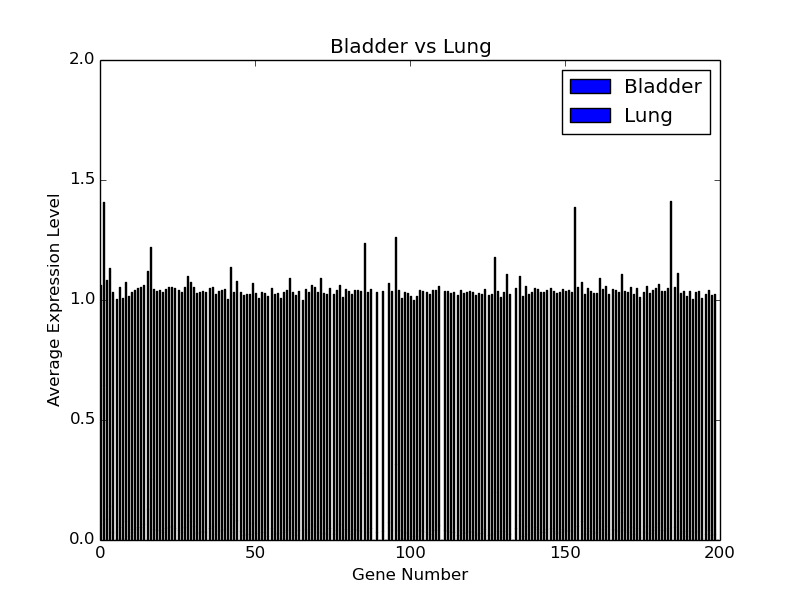
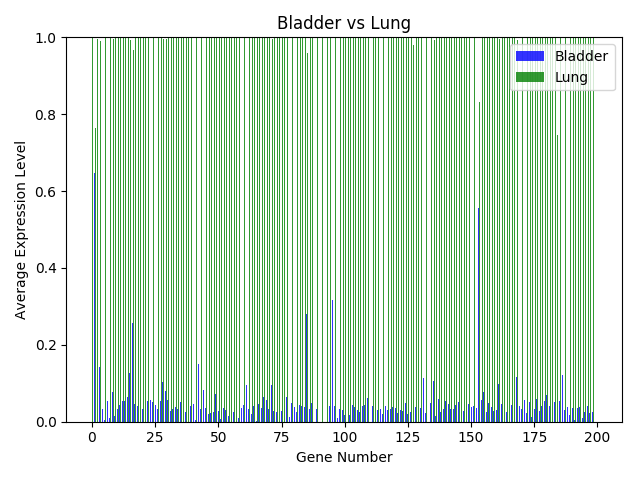
added random pipeline

diff --git a/compare_means.py b/compare_means.py
@@ -7,17 +7,27 @@ import matplotlib.pyplot as plt
 from sklearn import preprocessing
 import json
 from sklearn.preprocessing import normalize
-import sys
-
+import sys, argparse
 
 gene_count_dict = dict()
 with open("numsamples.json") as f:
     gene_count_dict = json.load(f)
 
+parser = argparse.ArgumentParser(description='Visualization tool for comparing gene expression levels in tissue')
+
+parser.add_argument('--dataset', help='dataset desired to compare from', type=str, required=True)
+parser.add_argument('--s1', help='sample class to choose from', type=str, required=True)
+parser.add_argument('--s2', help='sample class to choose from', type=str, required=True)
+parser.add_argument('--s3', help='sample class to choose from', type=str, required=False)
+parser.add_argument('--s4', help='sample class to choose from', type=str, required=False)
+parser.add_argument('--stack', help='stacked bar graphs or side-by-side (1 for stacked)', type=int, required=False, default=1)
+
+args = parser.parse_args()
+
 #Example: python compare_means.py "HALLMARK_ADIPOGENESIS" "Bladder" "Lung" will produce BladderLung.png
-process = sys.argv[1]
-sample1 = sys.argv[2] #"Adipose-Subcutaneous"
-sample2 = sys.argv[3]#"Adipose-Visceral"
+process = args.dataset
+sample1 = args.s1 #"Adipose-Subcutaneous"
+sample2 = args.s2#"Adipose-Visceral"
 tissues = [sample1,sample2]
 maxabsscalar = preprocessing.MaxAbsScaler()
 
@@ -38,21 +48,49 @@ for i in range(len(tissues)):#go through both samples
     average_expressions[i] = np.reshape(average_expressions[i], (average_expressions[i].shape[0], 1))
 
 average_expressions = np.hstack((average_expressions[0],average_expressions[1]))
-average_expressions = normalize(average_expressions) 
+average_expressions = maxabsscalar.fit_transform(average_expressions) 
 average_expressions = np.hsplit(average_expressions,2)
 
-N = 200
-ind = np.arange(N)    # the x locations for the groups
-width = 0.35       # the width of the bars: can also be len(x) sequence
+if args.stack == 1:
+	N = 200
+	ind = np.arange(N)    # the x locations for the groups
+	width = 0.35       # the width of the bars: can also be len(x) sequence
 
-p1 = plt.bar(ind, average_expressions[0], width)
-p2 = plt.bar(ind, average_expressions[1], width,
-             bottom=average_expressions[0])
+	p1 = plt.bar(ind, average_expressions[0], width)
+	p2 = plt.bar(ind, average_expressions[1], width,
+	             bottom=average_expressions[0])
 
-plt.ylabel('Average Expression Level')
-plt.xlabel('Gene Number')
-plt.title(sample1 + " vs "+ sample2 )
-plt.ylim(0,2)
-plt.legend((p1[0], p2[0]), (sample1, sample2))
+	plt.ylabel('Average Expression Level')
+	plt.xlabel('Gene Number')
+	plt.title(sample1 + " vs "+ sample2 )
+	plt.ylim(0,2)
+	plt.legend((p1[0], p2[0]), (sample1, sample2))
 
-plt.savefig('./graphs/hallmark_subsets/'+ process + '/compares/' + sample1 + sample2 + '.png')
+	plt.savefig('./graphs/hallmark_subsets/'+ process + '/compares/' + sample1 + sample2 + '.png')
+else:
+	N = 200
+	ind = np.arange(N)    # the x locations for the groups
+	width = 0.35       # the width of the bars: can also be len(x) sequence
+	opacity = 0.8
+	fig, ax = plt.subplots()
+
+	p1 = plt.bar(ind, average_expressions[0], width, alpha=opacity, color='b', label=args.s1)
+	p2 = plt.bar(ind + width, average_expressions[1], width, alpha=opacity, color='r', label=args.s2)
+
+	plt.ylabel('Average Expression Level')
+	plt.xlabel('Gene Number')
+	plt.title(sample1 + " vs "+ sample2 )
+	plt.ylim(0,np.max(average_expressions))
+	plt.legend((p1[0], p2[0]), (sample1, sample2))
+	plt.tight_layout()
+
+	print(args.s1)
+	print(str(np.max(average_expressions[0])))
+	print(np.argmax(average_expressions[0]))
+
+	print(args.s2)
+	print(str(np.max(average_expressions[1])))
+	print(np.argmax(average_expressions[1]))
+
+	plt.savefig('./graphs/hallmark_subsets/'+ process + '/compares/' + sample1 + sample2 + '.png')
+

diff --git a/nn_gtex.py b/nn_gtex.py
@@ -12,7 +12,7 @@ import os
 
 def main():
     parser = argparse.ArgumentParser(description='Neural network to classify genetic data')
-    parser.add_argument('--lr', help='learning rate', type=float, default=0.0001)
+    parser.add_argument('--lr', help='learning rate', type=float, default=0.001)
     parser.add_argument('--epochs', help='no. of training epoch', type=int, default=100)
     parser.add_argument('--h1', help='no. of neurons in hidden layer 1', type=int, default=512)
     parser.add_argument('--h2', help='no. of neurons in hidden layer 2', type=int, default=512)
@@ -61,7 +61,7 @@ def main():
         #layer_2 = tf.nn.dropout(layer_2, 0.75)
         # Hidden layer with RELU activation
         layer_3 = tf.add(tf.matmul(layer_2, weights['h3']), biases['b3'])
-        layer_3 = tf.nn.relu(layer_3)
+        layer_3 = tf.nn.sigmoid(layer_3)
         #layer_3 = tf.nn.dropout(layer_3, 0.75)
         #layer_3 = tf.nn.l2_normalize(layer_3, [0,1])
 
@@ -147,9 +147,9 @@ def main():
             # Compute average loss
             avg_cost += c / total_batch
             
-        if epoch % display_step == 0:
-            print("Epoch:", '%04d' % (epoch+1), "Learning Rate: ", '%5f' % (learning_rate.eval(feed_dict=None, session=sess)), "cost=", "{:.9f}".format(avg_cost))
-    print("Optimization Finished!")
+    #     if epoch % display_step == 0:
+    #         print("Epoch:", '%04d' % (epoch+1), "Learning Rate: ", '%5f' % (learning_rate.eval(feed_dict=None, session=sess)), "cost=", "{:.9f}".format(avg_cost))
+    # print("Optimization Finished!")
     saver.save(sess, "./checkpoints/gtex_nn")
 
     # Test model
@@ -157,6 +157,7 @@ def main():
     # Calculate accuracy
     accuracy = tf.reduce_mean(tf.cast(correct_prediction, "float"))
     print(str(accuracy.eval({x: gtex.test.data, y: gtex.test.labels}, session=sess)))
+    #print(str(result.eval({x:gtex.test.data[0:3]}, session=sess)))
     # bd = np.transpose(np.load('./datasets/braincell_data_flt32.npy'))
     # bd = maxabsscaler.fit_transform(bd)
     # labels = np.zeros((331,30))

diff --git a/random_gene_generator.py b/random_gene_generator.py
@@ -1,28 +1,43 @@
 import numpy as np
 import os
 import json
+import shutil
+import sys, argparse
+
+parser = argparse.ArgumentParser(description='generate random subsets of GTEx specified by number')
+parser.add_argument('--num', help='number of genes to use in random submatrix', type=int, required=True, default=0)
+args = parser.parse_args()
 
 #Generate Gene Indexes for Random Sample
-gene_indexes = np.random.randint(56238, size=200)
+gene_indexes = np.random.randint(56238, size=args.num)
 
 #Load JSON
 gene_count_dict = dict()
 with open("numsamples_gtex.json") as f:
     gene_count_dict = json.load(f)
 
+if os.path.isdir('./datasets/GTEx_Data_Random'):
+	shutil.rmtree('./datasets/GTEx_Data_Random')
+
+if not os.path.isdir('./datasets/GTEx_Data_Random'):
+	os.mkdir('./datasets/GTEx_Data_Random')
+
 tissues = os.listdir("./datasets/GTEx_Data")
 
 for i in range(len(tissues)):#loop through all tissue types
     tissue_samples = os.listdir("./datasets/GTEx_Data/"+ tissues[i])#get dat files/samples
 
+    if not os.path.isdir('./datasets/GTEx_Data_Random/' + tissues[i]):
+    	os.mkdir('./datasets/GTEx_Data_Random/' + tissues[i])
+
     for j in range(gene_count_dict[tissues[i]]):#loop through dat files
         sample = np.fromfile("./datasets/GTEx_Data/"+ tissues[i]+'/' + tissue_samples[j], dtype=np.float32)#get 1 sample
-	random_sample = np.zeros(200)
+	random_sample = np.zeros(args.num)
 	for r in range(len(gene_indexes)):#loop through random indexes
 		random_sample[r] = sample[gene_indexes[r]]
 
 	random_sample = random_sample.astype(np.float32)
 	#print(len(random_sample))
-	random_sample.tofile("./datasets/GTEx_Data_random200/"+ tissues[i] + '/' +tissue_samples[j])
+	random_sample.tofile("./datasets/GTEx_Data_Random/"+ tissues[i] + '/' +tissue_samples[j])
 		
         

diff --git a/random_test.py b/random_test.py
@@ -1,0 +1,45 @@
+#/usr/bin/python
+
+# runs all the hallmark sets iteratively
+
+import numpy as np
+import os
+import subprocess
+
+#top_dir = os.system("cd /home/csheare/DeepGTEx/datasets/hallmark_subsets")
+
+hall_subs = os.listdir("./datasets/hallmark_subsets")
+hall_subs.sort()
+files = ['random_accuracy.txt']
+h1 = [1024]
+h2 = [1024]
+h3 = [1024]
+
+accs = np.zeros((50,100))
+
+for j in range(100):
+	print('Iteration ' + str(j))
+	out = []
+	for i in range(len(hall_subs)):
+
+		temp = np.fromfile('./datasets/hallmark_subsets/' + hall_subs[i] + '/Artery-Tibial/000_GTEX-111FC-0426-SM-5N9CV.dat', dtype=np.float32)
+		n_features = temp.shape[0]
+
+		os.system('python ./random_gene_generator.py --num ' + str(n_features))
+
+		os.system('python ./create-sets.py -d gtex -p ./datasets/GTEx_Data_Random ' + ' -t 70 -r 30 ')
+		#find features
+
+		#future:change arguments and get from command line
+		accs[i,j] = subprocess.check_output('python nn_gtex.py --n_input ' + str(n_features) + \
+			' --n_classes 53 --batch_size 256 --lr 0.001 --epochs 75 --h1 ' + str(h1[0]) + ' --h2 ' + str(h2[0]) + ' --h3 ' + str(h3[0]), shell=True)
+
+
+np.save('./logs/accuracies.npy', accs)
+
+means = np.mean(accs, axis=1)
+
+fp = open('./logs/' + files[0], 'w')
+for val,name in zip(means,hall_subs):
+    fp.write('{0}\t{1}'.format(name, val))    
+fp.close() 

diff --git a/run_halls.py b/run_halls.py
@@ -10,10 +10,10 @@ import subprocess
 
 hall_subs = os.listdir("./datasets/hallmark_subsets")
 hall_subs.sort()
-files = ['53reinforce_2048x2048x2048_250e.txt']
-h1 = [2048]
-h2 = [2048]
-h3 = [2048]
+files = ['Xav_1024x1024x1024_100e.txt']
+h1 = [1024]
+h2 = [1024]
+h3 = [1024]
 
 for j in range(len(files)):
 	out = []
@@ -24,7 +24,7 @@ for j in range(len(files)):
 	    n_features = temp.shape[0]
 	    #future:change arguments and get from command line
 	    out.append(subprocess.check_output('python ../reinforce/nn_gtex_reinforce.py --n_input ' + str(n_features) + \
-	    	' --n_classes 53 --batch_size 256 --lr 0.001 --epochs 250 --h1 ' + str(h1[j]) + ' --h2 ' + str(h2[j]) + ' --h3 ' + str(h3[j]), shell=True))
+	    	' --n_classes 53 --batch_size 16 --lr 0.001 --epochs 100 --h1 ' + str(h1[j]) + ' --h2 ' + str(h2[j]) + ' --h3 ' + str(h3[j]), shell=True))
 
 	fp = open('./logs/' + files[j], 'w')
 	for val,name in zip(out,hall_subs):
